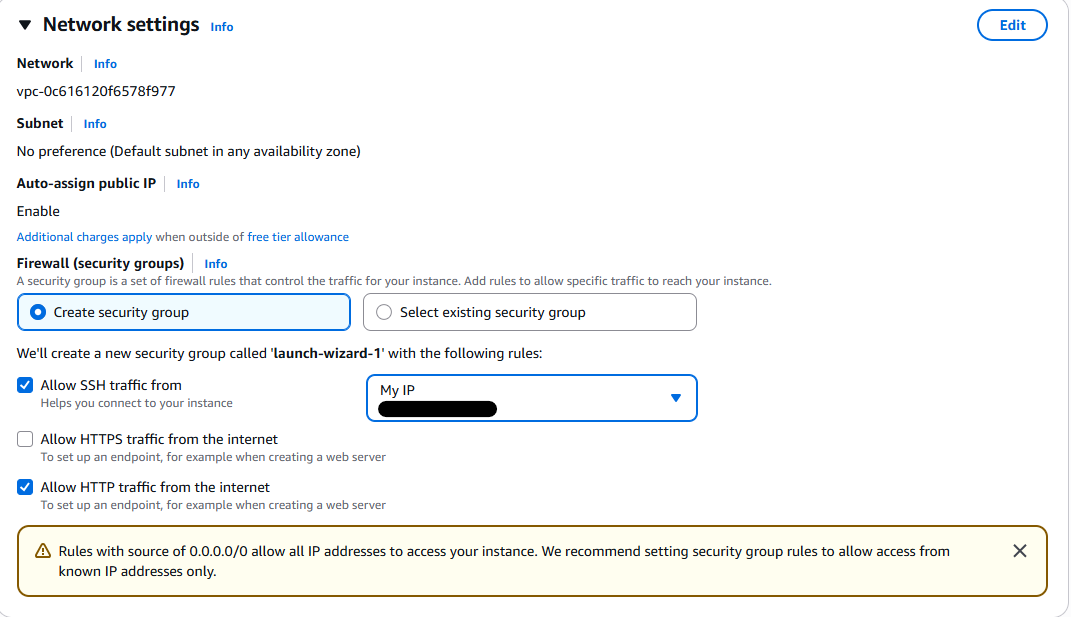
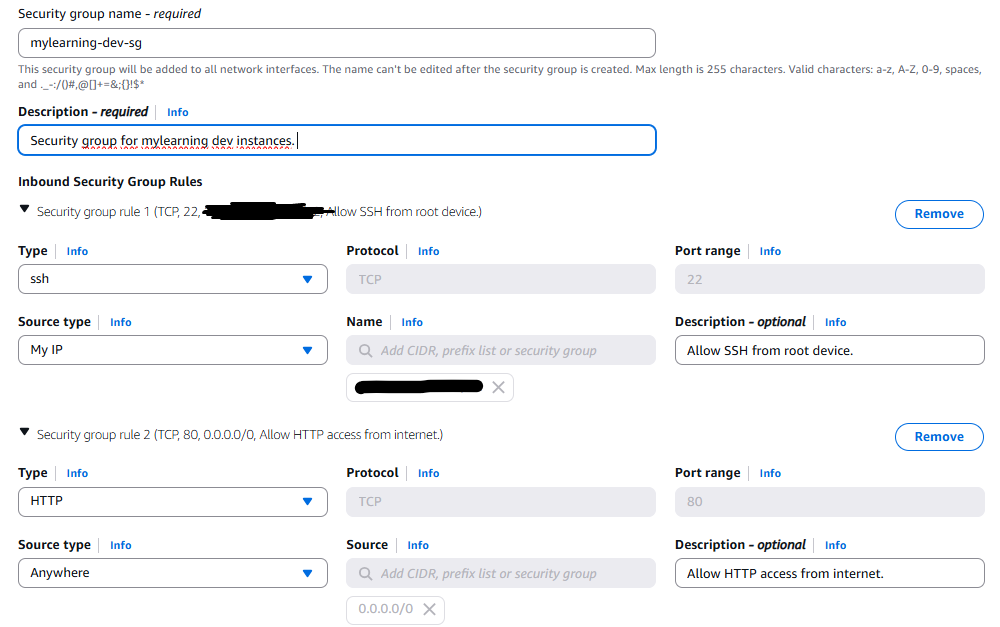
update: fix scripts, update images, update readme

Changed region(s): [[0.0, 0.0, 1.0, 1.0], [0.682, 0.4927, 0.961, 0.5851], [0.682, 0.7391, 0.775, 0.8006]]

diff --git a/README.md b/README.md
@@ -37,9 +37,9 @@ If we want to interact with the machine, we have to use SSH. In order for us to 
 The key type I chose is RSA, meaning that the algorithm used to create the key pair is RSA. Upon creation, the key should be downloaded to our computer, which we can use for the SSH machine login later.
 
 ### 5. Configure Network Security Group
-Furthermore, we also need to state what type of traffic the instance can recieve and from where. This is done through **Security Groups**. For our task, we will need to allow SSH from our machine (to login) and HTTP from the internet as we are hosting a static website.
+Furthermore, we also need to state what type of traffic the instance can recieve and from where. This is done through **Security Groups**. For this, we will need to allow SSH from our local machine (to remotely login) and HTTP from the internet as we are hosting a static website. I called the security group `mylearning-dev-sg`.
 
-This is done by choosing the followin options:
+This is done by choosing the following options:
 
 ![alt text](images/image-4.png)
 
@@ -52,21 +52,24 @@ Below is the script I used:
 **setup_and_deploy.sh:**
 ```bash
 #!/bin/bash
+
 SVC="httpd"
 ARTIFACT="2137_barista_cafe"
-URL="https://www.tooplate.com/zip-templates/$ARTIFACT.zip
-yum install zip unzip $SVC -y
+URL="https://www.tooplate.com/zip-templates/$ARTIFACT.zip"
+
+sudo yum install zip unzip $SVC -y
 
 mkdir /tmp/webfiles
 cd /tmp/webfiles
 wget $URL
 unzip $ARTIFACT.zip
-cp -r $ARTIFACT/* /var/www/html
+sudo cp -r $ARTIFACT/* /var/www/html
 
-rm -rf /tmp/webfiles
+sudo rm -rf /tmp/webfiles
 
-systemctl start $SVC
-systemctl enable $SVC
+sudo systemctl start $SVC
+sudo systemctl enable $SVC
+
 
 ```
 
@@ -75,6 +78,47 @@ Go to advanced settings, scroll to the very bottom until you see **User data**. 
 ![alt text](images/image-5.png)
 
 ### 7. Launch the Instance
-With all the required steps done, the instance can then be launched. We can do this by pressing the "Launch Instance" button on the bottom right. 
+With all the required steps done, the instance can then be launched. We can do this by pressing the "Launch Instance" button on the bottom right. This will prompt AWS to launch a new instance based on the configurations we previously gave.
 
 ![alt text](images/image-6.png)
+
+The new instance, including its details such as its private and public IP can be seen in the **EC2 dashboard**. The instance will be in an "Initializing" status, which means that the instance is getting set up:
+
+![alt text](images/image-7.png)
+
+Eventually, it will reach an "2/2 Checks Passed" status, in which it is ready to be used: 
+
+
+### 8. Access the website
+Since we provisioned the instance to automatically host the static website, we can access the site through its public IP. Simply enter this information into your local browser:
+
+![alt text](images/image-9.png)
+
+### 9. SSH Login into the Instance
+To interact with the OS of the instance we need to SSH login into the machine. As usual, we would need the `.pem` key that we created previously. Mine was `mylearning-dev-key.pem`. Locate the key and run the following commands:
+
+```bash
+chmod 400 mylearning-dev-key.pem
+ssh -i mylearning-dev-key.pem ec2-user@<server_public_ip>
+```
+
+This allows us to login as `ec2-user` into the instance.
+
+```
+$ ssh -i ~/.ssh/mylearning-dev-key-web ec2-user@<server's_public_ip>
+Are you sure you want to continue connecting (yes/no/[fingerprint])? yes
+Warning: Permanently added '<server_public_ip>' to the list of known hosts.
+   ,     #_
+   ~\_  ####_        Amazon Linux 2023
+  ~~  \_#####\
+  ~~     \###|
+  ~~       \#/ ___   https://aws.amazon.com/linux/amazon-linux-2023
+   ~~       V~' '->
+    ~~~         /
+      ~~._.   _/
+         _/ _/
+       _/m/'
+[ec2-user@<server_public_ip> ~]$
+```
+Now you can whatever the hell you want with the instance!!! Have fun!!!
+
